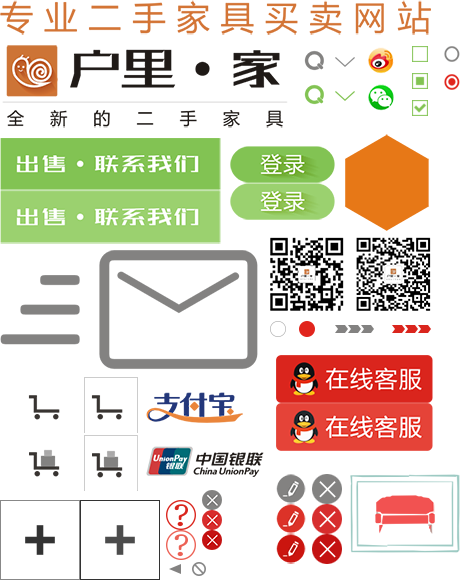
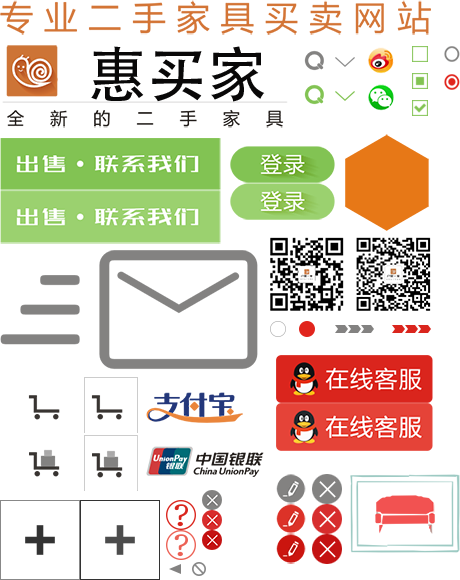
updata

Changed region(s): [[0.1522, 0.0621, 0.6087, 0.1862]]

diff --git a/js/common.js b/js/common.js
@@ -3,7 +3,7 @@
  */
 
 var rootUrl = window.location.href;
-rootUrl = rootUrl.slice(0, rootUrl.indexOf("huli/") + 5);
+rootUrl = rootUrl.slice(0, rootUrl.indexOf("huiM/") + 5);
 
 
 // 加载页头信息
@@ -21,7 +21,7 @@ $.get(rootUrl + "html/header.html", function (str) {
 });
 
 $("header").on("click", "a", function (event) {
-    rootUrl = rootUrl.slice(0, rootUrl.indexOf("huli/") + 5);
+    rootUrl = rootUrl.slice(0, rootUrl.indexOf("huiM/") + 5);
     var a = event.target.innerText;
     if (a.match("沙发")) {
         window.location.href = rootUrl + "html/category/sofa.html";
